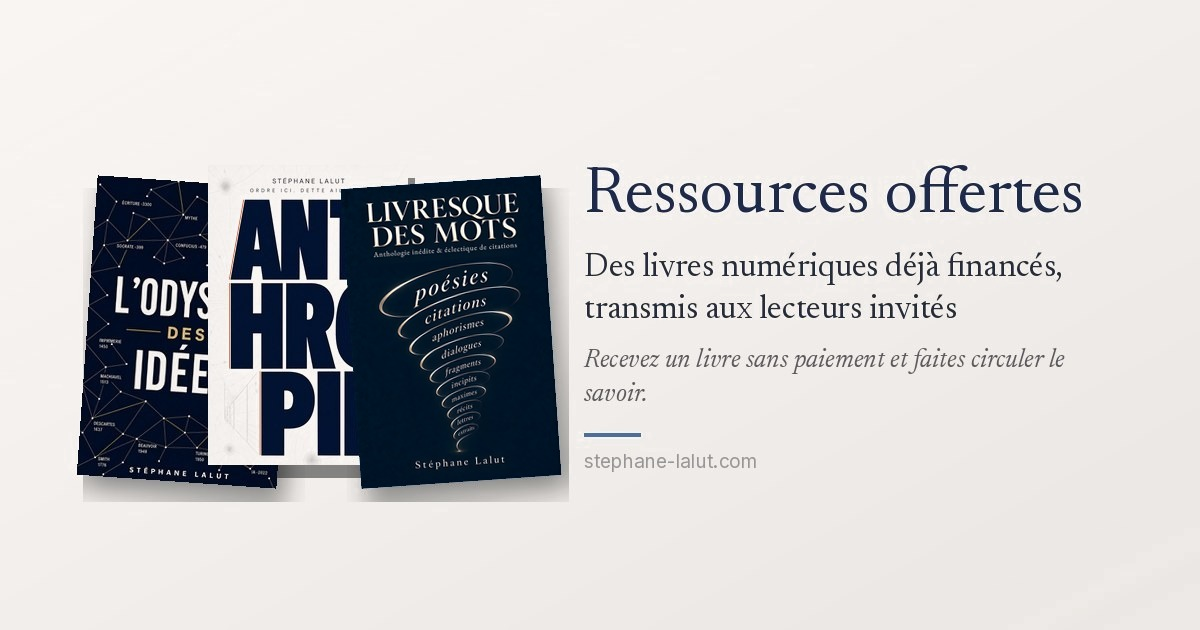
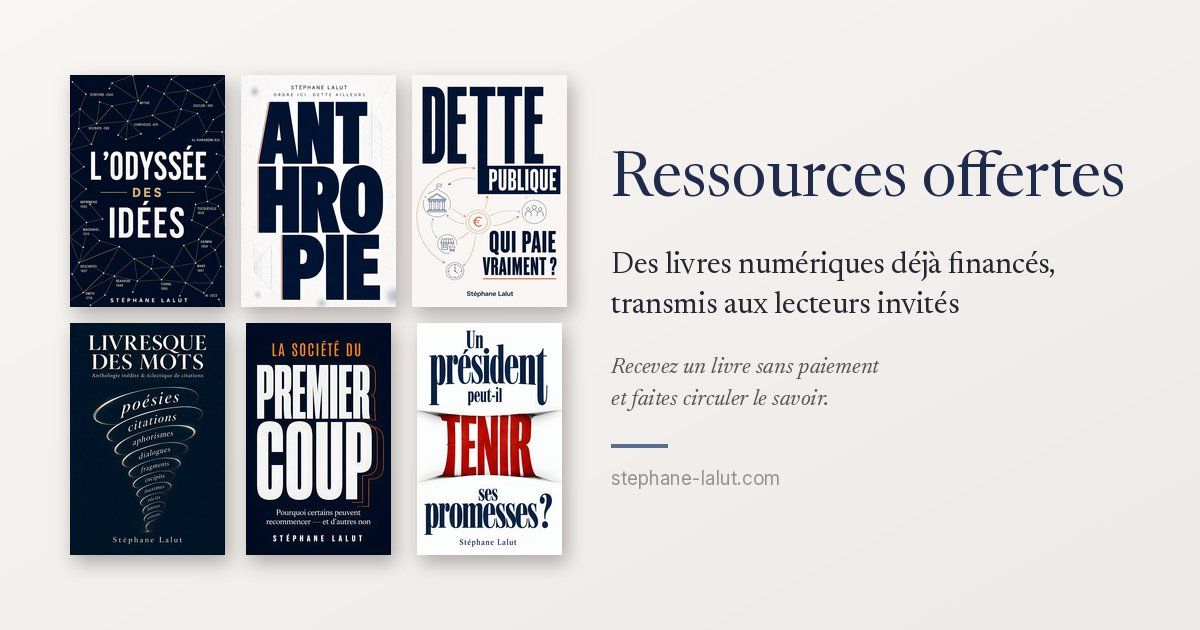
feat(ressources-offertes): carte de partage de la page mere a six livres
Grille 3x2 dans l'ordre de $order, meme texte que la precedente. Fabriquee par
og_ressources_livre_base.py, qui lit $order ; texte alternatif aligne.

Changed region(s): [[0.0308, 0.1206, 0.9558, 0.9048]]

diff --git a/scripts/og_ressources_livre_base.py b/scripts/og_ressources_livre_base.py
@@ -12,17 +12,26 @@ Style repris de static/images/og-ressources-offertes.jpg (mesure le 2026-09-23) 
 degrade, Newsreader pour le texte, filet bleu, URL en Inter gris. La zone de couverture tient dans
 le carre central 630x630 (x = 285..915) que WhatsApp recadre pour son apercu compact.
 
+Le meme script fabrique la carte COLLECTIVE de la page mere, static/images/og-ressources-offertes.jpg :
+les couvertures de tous les livres de `$order` (layouts/ressources-offertes/list.html), lu a chaque
+execution, en grille de trois colonnes. Elle, en revanche, est figee : un livre ajoute a `$order`
+n'y entre qu'en relancant ce script.
+
 Usage : python scripts/og_ressources_livre_base.py
-Sortie : assets/images/og-ressources-livre-base.jpg (1200x630)
+Sorties : assets/images/og-ressources-livre-base.jpg et static/images/og-ressources-offertes.jpg (1200x630)
 """
 from __future__ import annotations
 
+import re
 from pathlib import Path
 
 from PIL import Image, ImageDraw, ImageFilter, ImageFont
 
 ROOT = Path(__file__).resolve().parents[1]
 OUT = ROOT / "assets" / "images" / "og-ressources-livre-base.jpg"
+OUT_MERE = ROOT / "static" / "images" / "og-ressources-offertes.jpg"
+LIST = ROOT / "layouts" / "ressources-offertes" / "list.html"
+COVERS = ROOT / "assets" / "images" / "livres"
 FONTS = ROOT / "static" / "fonts"
 W, H = 1200, 630
 
@@ -70,37 +79,84 @@ def background() -> Image.Image:
     return im
 
 
-def main() -> None:
-    im = background()
-
-    # Ombre portee douce sous la couverture (la couverture elle-meme est posee par Hugo).
-    shadow = Image.new("L", (W, H), 0)
-    x0 = COVER_CX - SHADOW_W // 2
-    ImageDraw.Draw(shadow).rectangle((x0 + 6, COVER_TOP + 10, x0 + SHADOW_W + 6, COVER_TOP + COVER_H + 10), fill=110)
-    shadow = shadow.filter(ImageFilter.GaussianBlur(14))
-    im.paste(Image.new("RGB", (W, H), (60, 55, 50)), (0, 0), shadow)
-
+def text_block(im: Image.Image, x: int, sub: tuple[str, str], ital: tuple[str, str]) -> None:
     d = ImageDraw.Draw(im)
     y = 150
-    d.text((TEXT_X, y), "Ressources offertes", font=font("newsreader", 62), fill=NAVY)
+    d.text((x, y), "Ressources offertes", font=font("newsreader", 62), fill=NAVY)
     y += 100
     f_sub = font("newsreader", 30)
-    for line in ("Un livre numérique déjà financé,", "transmis à un lecteur invité"):
-        d.text((TEXT_X, y), line, font=f_sub, fill=INK)
+    for line in sub:
+        d.text((x, y), line, font=f_sub, fill=INK)
         y += 40
     y += 26
     f_it = font("newsreader", 23, italic=True)
-    for line in ("Lisez. Et si vous aimez,", "faites circuler le savoir."):
-        d.text((TEXT_X, y), line, font=f_it, fill=GREY_ITAL)
+    for line in ital:
+        d.text((x, y), line, font=f_it, fill=GREY_ITAL)
         y += 32
     y += 24
-    d.rectangle((TEXT_X, y, TEXT_X + 56, y + 3), fill=RULE)
+    d.rectangle((x, y, x + 56, y + 3), fill=RULE)
     y += 22
-    d.text((TEXT_X, y), "stephane-lalut.com", font=font("inter", 19), fill=URL)
+    d.text((x, y), "stephane-lalut.com", font=font("inter", 19), fill=URL)
 
+
+def drop_shadow(im: Image.Image, box: tuple[int, int, int, int], dx: int, dy: int, blur: int, alpha: int) -> None:
+    shadow = Image.new("L", (W, H), 0)
+    x0, y0, x1, y1 = box
+    ImageDraw.Draw(shadow).rectangle((x0 + dx, y0 + dy, x1 + dx, y1 + dy), fill=alpha)
+    im.paste(Image.new("RGB", (W, H), (60, 55, 50)), (0, 0), shadow.filter(ImageFilter.GaussianBlur(blur)))
+
+
+def base_livre() -> None:
+    im = background()
+    x0 = COVER_CX - SHADOW_W // 2
+    drop_shadow(im, (x0, COVER_TOP, x0 + SHADOW_W, COVER_TOP + COVER_H), 6, 10, 14, 110)
+    text_block(im, TEXT_X, ("Un livre numérique déjà financé,", "transmis à un lecteur invité"),
+               ("Lisez. Et si vous aimez,", "faites circuler le savoir."))
     OUT.parent.mkdir(parents=True, exist_ok=True)
     im.save(OUT, "JPEG", quality=92, optimize=True)
     print(f"ecrit : {OUT.relative_to(ROOT)} ({W}x{H})")
+
+
+def order() -> list[str]:
+    m = re.search(r'\$order := slice ((?:"[^"]+"\s*)+)\}\}', LIST.read_text(encoding="utf-8"))
+    if not m:
+        raise SystemExit(f"$order introuvable dans {LIST}")
+    return re.findall(r'"([^"]+)"', m.group(1))
+
+
+def carte_mere() -> None:
+    slugs = order()
+    missing = [s for s in slugs if not (COVERS / f"{s}.jpg").exists()]
+    if missing:
+        raise SystemExit(f"couverture absente : {missing}")
+    cols = 3
+    rows = -(-len(slugs) // cols)
+    ch = 232 if rows == 2 else min(480, 480 // rows)
+    gap, left, top = 16, 70, (H - rows * ch - (rows - 1) * 16) // 2
+    cw = round(ch * 2 / 3)
+    im = background()
+    places = []
+    for i, slug in enumerate(slugs):
+        r, c = divmod(i, cols)
+        cov = Image.open(COVERS / f"{slug}.jpg").convert("RGB")
+        w = round(cov.width * ch / cov.height)
+        cov = cov.resize((w, ch), Image.LANCZOS)
+        x = left + c * (cw + gap) + (cw - w) // 2
+        y = top + r * (ch + gap)
+        places.append((cov, x, y))
+        drop_shadow(im, (x, y, x + w, y + ch), 4, 7, 9, 95)
+    for cov, x, y in places:
+        im.paste(cov, (x, y))
+    text_x = left + cols * cw + (cols - 1) * gap + 44
+    text_block(im, text_x, ("Des livres numériques déjà financés,", "transmis aux lecteurs invités"),
+               ("Recevez un livre sans paiement", "et faites circuler le savoir."))
+    im.save(OUT_MERE, "JPEG", quality=85, optimize=True)
+    print(f"ecrit : {OUT_MERE.relative_to(ROOT)} ({W}x{H}) -- {len(slugs)} livres : {', '.join(slugs)}")
+
+
+def main() -> None:
+    base_livre()
+    carte_mere()
 
 
 if __name__ == "__main__":

diff --git a/content/ressources-offertes/_index.md b/content/ressources-offertes/_index.md
@@ -11,7 +11,7 @@ og_description: "Recevez un livre sans paiement. Des ouvrages transmis sur invit
 twitter_title: "Ressources offertes — des livres déjà financés"
 twitter_description: "Recevez un livre sans paiement. Une chaîne de transmission du savoir."
 og_image: "images/og-ressources-offertes.jpg"
-og_image_alt: "Ressources offertes — des livres numériques déjà financés, transmis aux lecteurs invités. L'Odyssée des idées, Anthropie et Livresque des mots."
+og_image_alt: "Ressources offertes — des livres numériques déjà financés, transmis aux lecteurs invités. L'Odyssée des idées, Anthropie, La Dette publique, Livresque des mots, La Société du premier coup et Un président peut-il tenir ses promesses ?"
 _build:
   list: never        # exclue du sitemap et des listes internes
   render: always     # l'URL reste servie pour qui possède le lien

diff --git a/PROJECT_STATUS.md b/PROJECT_STATUS.md
@@ -65,6 +65,8 @@ complète fonctionne sans attendre le prochain push naturel ou le 1er du mois.
   un `og_image` explicite reprend la main s'il est remis. Couverture dans le carré central 630×630
   (recadrage de l'aperçu compact WhatsApp). ⚠ Une URL déjà partagée garde l'ancien aperçu en cache
   WhatsApp : tester avec `?v=N`.
+- **Carte mère refaite à six livres** (demande auteur) : grille 3×2 dans l'ordre de `$order`, même texte.
+  Fabriquée par le même script, qui lit `$order` ; elle est figée : un livre ajouté n'y entre qu'en le relançant.
 
 ### 2026-09-21 (nuit, suite) — Diptyque dette, étapes 3 et 4 + P4 + pages voisines : TOUT LIVRÉ
 
